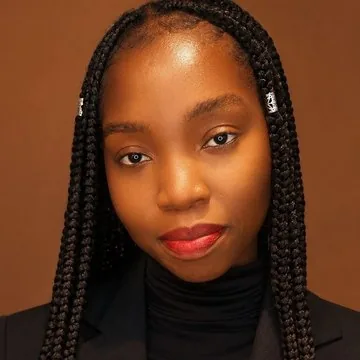
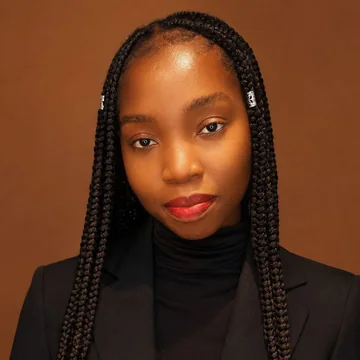
Apply VamosFalar palette; recrop Daria/Yolanda photos; zoom out A1 image; new club image; drop 'Почему VamosFalar'
Claude-Session: https://claude.ai/code/session_01Gw7vHuWDiBF9GfiDrPFvNY

diff --git a/css/style.css b/css/style.css
@@ -1,19 +1,20 @@
 /* ============ Tokens ============ */
 :root {
-  --ink: #111111;
-  --ink-soft: #4a4a55;
-  --primary: #2b2a43;
-  --primary-hover: #3d3c5c;
-  --black: #000000;
-  --green: #1f7a35;
-  --red: #e1201f;
-  --gold: #f2c230;
+  /* VamosFalar palette */
+  --ink: #2b2d42;          /* почти чёрный */
+  --ink-soft: #5c6479;     /* серый #8d99ae, затемнённый для читаемого текста */
+  --primary: #2b2d42;
+  --primary-hover: #3d405c;
+  --black: #2b2d42;
+  --red: #ef233c;          /* красный */
+  --red-dark: #d90429;     /* тёмно-красный */
+  --gray: #8d99ae;         /* серый */
   --bg: #ffffff;
-  --bg-alt: #f7f4ef;
-  --line: #e7e7ee;
+  --bg-alt: #edf2f4;       /* белый (холодный) */
+  --line: #dde3ea;
   --radius: 28px;
   --radius-sm: 16px;
-  --shadow: 0 10px 30px rgba(20, 20, 50, .08);
+  --shadow: 0 10px 30px rgba(43, 45, 66, .08);
   --container: 1120px;
   --header-h: 92px;
   --font: 'Inter', system-ui, -apple-system, 'Segoe UI', Roboto, Arial, sans-serif;
@@ -53,11 +54,11 @@ button { font: inherit; cursor: pointer; }
   transition: background-color .2s, transform .2s, box-shadow .2s;
 }
 .btn:hover { transform: translateY(-1px); }
-.btn:focus-visible, a:focus-visible, button:focus-visible { outline: 3px solid var(--gold); outline-offset: 3px; }
+.btn:focus-visible, a:focus-visible, button:focus-visible { outline: 3px solid var(--red); outline-offset: 3px; }
 .btn--primary { background: var(--primary); color: #fff; }
-.btn--primary:hover { background: var(--primary-hover); box-shadow: 0 8px 20px rgba(43, 42, 67, .25); }
+.btn--primary:hover { background: var(--primary-hover); box-shadow: 0 8px 20px rgba(43, 45, 66, .25); }
 .btn--dark { background: var(--black); color: #fff; text-transform: uppercase; letter-spacing: .04em; font-size: 14px; min-height: 52px; }
-.btn--dark:hover { background: #24232f; }
+.btn--dark:hover { background: var(--primary-hover); }
 .btn--light { background: #fff; color: var(--primary); }
 .btn--light:hover { box-shadow: 0 8px 20px rgba(0, 0, 0, .2); }
 .btn--block { width: 100%; }
@@ -98,7 +99,7 @@ button { font: inherit; cursor: pointer; }
 }
 
 .header__right { display: flex; align-items: center; justify-content: flex-end; gap: 28px; }
-.lang { display: flex; gap: 2px; padding: 3px; background: #f1f1f5; border-radius: 999px; }
+.lang { display: flex; gap: 2px; padding: 3px; background: var(--bg-alt); border-radius: 999px; }
 .lang__btn {
   border: 0; background: transparent; padding: 5px 11px; border-radius: 999px;
   font-size: 13px; font-weight: 600; color: var(--ink-soft);
@@ -140,7 +141,7 @@ button { font: inherit; cursor: pointer; }
   background: #fff; border: 1px solid var(--line); border-radius: var(--radius); overflow: hidden;
   box-shadow: var(--shadow); transition: transform .25s, box-shadow .25s;
 }
-.audience__item:hover { transform: translateY(-4px); box-shadow: 0 16px 40px rgba(20, 20, 50, .12); }
+.audience__item:hover { transform: translateY(-4px); box-shadow: 0 16px 40px rgba(43, 45, 66, .12); }
 .audience__item img { order: -1; width: 100%; height: 340px; object-fit: cover; }
 .audience__item h3 { font-size: 18px; font-weight: 400; line-height: 1.4; padding: 22px 26px 26px; flex: 1; }
 
@@ -154,16 +155,16 @@ button { font: inherit; cursor: pointer; }
   box-shadow: var(--shadow);
   transition: transform .25s, box-shadow .25s;
 }
-.card:hover { transform: translateY(-4px); box-shadow: 0 16px 40px rgba(20, 20, 50, .12); }
+.card:hover { transform: translateY(-4px); box-shadow: 0 16px 40px rgba(43, 45, 66, .12); }
 .card__img { width: 100%; height: auto; aspect-ratio: 330 / 190; object-fit: cover; }
 .card__img--contain { object-fit: contain; background: #f4eae4; }
 .card__body { padding: 22px 30px 30px; display: flex; flex-direction: column; flex: 1; position: relative; }
 .card__badge {
   position: absolute; top: -18px; right: 24px;
-  background: var(--green); color: #fff; font-weight: 700; font-size: 14px;
+  background: var(--red); color: #fff; font-weight: 700; font-size: 14px;
   padding: 6px 14px; border-radius: 999px; box-shadow: 0 4px 10px rgba(0, 0, 0, .15);
 }
-.card__badge--alt { background: var(--red); }
+.card__badge--alt { background: var(--primary); }
 .card__title { font-size: 19px; font-weight: 400; margin-bottom: 18px; }
 .card__list { list-style: none; padding: 0; margin: 0 0 24px; font-size: 14px; color: var(--ink-soft); flex: 1; }
 .card__list li { position: relative; padding-left: 14px; margin-bottom: 4px; }
@@ -183,7 +184,7 @@ button { font: inherit; cursor: pointer; }
 /* thin Portuguese-flag accent on the left edge */
 .test::before {
   content: ''; position: absolute; left: 0; top: 0; bottom: 0; width: 6px;
-  background: linear-gradient(var(--green) 0 40%, var(--red) 40% 100%);
+  background: linear-gradient(var(--red-dark) 0 40%, var(--red) 40% 100%);
 }
 .test__icon { width: 64px; height: 64px; border-radius: 50%; background: var(--primary); color: #fff; display: grid; place-items: center; flex-shrink: 0; }
 .test__icon .ico--lg { width: 28px; height: 28px; margin-left: -2px; }
@@ -199,14 +200,14 @@ button { font: inherit; cursor: pointer; }
 .checks li::before {
   content: '✓'; position: absolute; left: 0; top: 0;
   width: 24px; height: 24px; border-radius: 50%;
-  background: var(--green); color: #fff; font-size: 13px; font-weight: 700;
+  background: var(--red); color: #fff; font-size: 13px; font-weight: 700;
   display: grid; place-items: center;
 }
 .individual__visual {
   position: relative; min-height: 300px; border-radius: var(--radius);
   background:
-    radial-gradient(circle at 20% 20%, rgba(31, 122, 53, .18), transparent 55%),
-    radial-gradient(circle at 80% 80%, rgba(225, 32, 31, .18), transparent 55%),
+    radial-gradient(circle at 20% 20%, rgba(141, 153, 174, .25), transparent 55%),
+    radial-gradient(circle at 80% 80%, rgba(239, 35, 60, .16), transparent 55%),
     #fff;
   box-shadow: var(--shadow);
   padding: 36px; display: flex; flex-direction: column; justify-content: center; gap: 18px;
@@ -215,7 +216,7 @@ button { font: inherit; cursor: pointer; }
   max-width: 75%; padding: 14px 20px; border-radius: 20px; font-size: 18px; font-weight: 500;
   box-shadow: 0 6px 18px rgba(0, 0, 0, .08);
 }
-.bubble--1 { background: var(--green); color: #fff; border-bottom-left-radius: 4px; }
+.bubble--1 { background: var(--primary); color: #fff; border-bottom-left-radius: 4px; }
 .bubble--2 { background: #fff; align-self: flex-end; border-bottom-right-radius: 4px; border: 1px solid var(--line); }
 .bubble--3 { background: var(--red); color: #fff; border-bottom-left-radius: 4px; }
 
@@ -247,9 +248,9 @@ button { font: inherit; cursor: pointer; }
 .tile p { font-size: 14px; color: var(--ink-soft); margin-top: 6px; }
 .tile__ico { width: 44px; height: 44px; border-radius: 12px; display: grid; place-items: center; }
 .tile__ico .ico { width: 22px; height: 22px; }
-.tile__ico--navy { background: #ecebf3; color: var(--primary); }
-.tile__ico--green { background: #e9f5ec; color: var(--green); }
-.tile__ico--red { background: #fdecec; color: var(--red); }
+.tile__ico--navy { background: var(--bg-alt); color: var(--primary); }
+.tile__ico--gray { background: #e3e7ee; color: #5c6479; }
+.tile__ico--red { background: #fde4e7; color: var(--red-dark); }
 
 /* ============ Team ============ */
 .team__grid { display: grid; grid-template-columns: repeat(3, 1fr); gap: 30px; margin-top: 40px; align-items: start; }
@@ -259,7 +260,7 @@ button { font: inherit; cursor: pointer; }
   background: var(--primary); color: #fff;
   display: grid; place-items: center; font-size: 44px; font-family: var(--font-logo);
   object-fit: cover;
-  border: 4px solid #fff; box-shadow: 0 0 0 3px var(--gold);
+  border: 4px solid #fff; box-shadow: 0 0 0 3px var(--red);
 }
 .person__name { font-size: 22px; font-weight: 600; }
 .person__role { color: var(--ink-soft); font-size: 14px; margin-top: 4px; }
@@ -296,7 +297,7 @@ button { font: inherit; cursor: pointer; }
   scrollbar-width: none;
 }
 .slider__track::-webkit-scrollbar { display: none; }
-.slider__track:focus-visible { outline: 3px solid var(--gold); outline-offset: 2px; border-radius: var(--radius); }
+.slider__track:focus-visible { outline: 3px solid var(--red); outline-offset: 2px; border-radius: var(--radius); }
 .slider__track > :first-child { margin-left: auto; }
 .slider__track > :last-child { margin-right: auto; }
 .slider__nav { display: flex; align-items: center; justify-content: center; gap: 18px; margin-top: 8px; }
@@ -328,12 +329,12 @@ button { font: inherit; cursor: pointer; }
   width: 46px; height: 46px; border-radius: 50%; flex-shrink: 0;
   background: var(--primary); color: #fff; display: grid; place-items: center; font-weight: 700;
 }
-.review:nth-child(3n+2) .review__avatar { background: var(--green); }
-.review:nth-child(3n) .review__avatar { background: var(--red); }
+.review:nth-child(3n+2) .review__avatar { background: var(--red); }
+.review:nth-child(3n) .review__avatar { background: var(--gray); }
 .review__name { font-weight: 600; }
 .review__date { font-size: 13px; color: var(--ink-soft); }
 .review__source { margin-left: auto; align-self: flex-start; font-size: 12px; color: var(--ink-soft); background: var(--bg-alt); padding: 4px 10px; border-radius: 999px; white-space: nowrap; }
-.review__stars { color: var(--gold); letter-spacing: 3px; font-size: 18px; margin: 16px 0 10px; }
+.review__stars { color: var(--red); letter-spacing: 3px; font-size: 18px; margin: 16px 0 10px; }
 .review__text { margin: 0; font-size: 15.5px; line-height: 1.6; position: relative; z-index: 1; }
 
 /* ============ FAQ ============ */
@@ -367,7 +368,7 @@ button { font: inherit; cursor: pointer; }
   backdrop-filter: blur(12px) saturate(140%);
   border: 1px solid rgba(255, 255, 255, .6);
   border-radius: 24px;
-  box-shadow: 0 10px 30px rgba(20, 20, 50, .12);
+  box-shadow: 0 10px 30px rgba(43, 45, 66, .12);
   padding: 30px 24px;
 }
 .final__card h2 { font-size: clamp(20px, 2.2vw, 24px); font-weight: 500; }
@@ -392,7 +393,7 @@ button { font: inherit; cursor: pointer; }
 .footer__brand img { width: 36px; height: 36px; }
 .footer__links { display: flex; gap: 22px; }
 .footer__links a { display: inline-flex; align-items: center; gap: 8px; text-decoration: none; font-weight: 500; }
-.footer__links a:hover { color: var(--green); }
+.footer__links a:hover { color: var(--red); }
 .footer__copy { font-size: 13px; color: var(--ink-soft); }
 
 /* ============ Floating WhatsApp ============ */
@@ -459,7 +460,7 @@ button { font: inherit; cursor: pointer; }
   .stat span { font-size: 13px; }
 
   .test { flex-direction: column; text-align: center; padding: 34px 24px 28px; }
-  .test::before { width: auto; height: 6px; right: 0; bottom: auto; background: linear-gradient(90deg, var(--green) 0 40%, var(--red) 40% 100%); }
+  .test::before { width: auto; height: 6px; right: 0; bottom: auto; background: linear-gradient(90deg, var(--red-dark) 0 40%, var(--red) 40% 100%); }
 }
 
 @media (max-width: 560px) {

diff --git a/index.html b/index.html
@@ -7,7 +7,7 @@
   <meta name="description" data-i18n-attr="content:meta.description" content="Онлайн-школа разговорного португальского VamosFalar: курсы A1 и A2, разговорный клуб и индивидуальные уроки с преподавателями-носителями языка в группах 2–5 человек. Португальский для переезда, путешествий и работы.">
   <meta name="keywords" content="португальский язык онлайн, курсы португальского языка, разговорный португальский, португальский с носителем, уроки португальского онлайн, португальский для начинающих, португальский A1, португальский A2, разговорный клуб португальский, португальский для переезда, португальский для эмиграции, выучить португальский, школа португальского языка, индивидуальные занятия португальский, португальский язык для Португалии, португальский язык для Анголы">
   <meta name="robots" content="index, follow">
-  <meta name="theme-color" content="#2b2a43">
+  <meta name="theme-color" content="#2b2d42">
   <link rel="canonical" href="https://vamosfalar.net/">
   <link rel="alternate" hreflang="ru" href="https://vamosfalar.net/">
   <link rel="alternate" hreflang="en" href="https://vamosfalar.net/?lang=en">
@@ -31,7 +31,7 @@
   <link rel="preconnect" href="https://fonts.googleapis.com">
   <link rel="preconnect" href="https://fonts.gstatic.com" crossorigin>
   <link href="https://fonts.googleapis.com/css2?family=Irish+Grover&family=Inter:wght@400;500;600;700&display=swap" rel="stylesheet">
-  <link rel="stylesheet" href="css/style.css?v=202610280924">
+  <link rel="stylesheet" href="css/style.css?v=202610281021">
 
   <script type="application/ld+json">
   {
@@ -181,7 +181,7 @@
       <div class="container courses__grid">
 
         <article class="card reveal">
-          <img class="card__img" src="assets/img/a1.webp" alt="" loading="lazy" width="528" height="304">
+          <img class="card__img" src="assets/img/a1.webp" alt="" loading="lazy" width="643" height="370">
           <div class="card__body">
             <span class="card__badge">A1</span>
             <h3 class="card__title" data-i18n="courses.a1.title">Разговорный курс A1 онлайн для начинающих</h3>
@@ -216,7 +216,7 @@
         </article>
 
         <article class="card reveal">
-          <img class="card__img" src="assets/img/club.webp" alt="" loading="lazy" width="548" height="313">
+          <img class="card__img" src="assets/img/club.webp" alt="" loading="lazy" width="660" height="380">
           <div class="card__body">
             <span class="card__badge card__badge--alt" data-i18n="courses.club.badge">Клуб</span>
             <h3 class="card__title" data-i18n="courses.club.title">Разговорный клуб для продолжающих</h3>
@@ -283,7 +283,6 @@
     <div class="container">
       <div class="about__inner">
       <div class="about__intro reveal">
-        <p class="eyebrow" data-i18n="about.eyebrow">Почему VamosFalar</p>
         <h2 class="about__title" data-i18n="about.title">О школе VamosFalar</h2>
         <p class="about__lead" data-i18n="about.lead">Мы учим не «португальскому из учебника», а живому языку, на котором говорят на улице, в кафе и в офисе. С первого урока — живая практика с носителями языка: полностью на португальском или с пояснениями на английском, как вам удобнее.</p>
         <div class="about__numbers">
@@ -294,9 +293,9 @@
       </div>
       <div class="about__features">
         <div class="tile reveal"><span class="tile__ico tile__ico--navy"><svg class="ico"><use href="#i-native"/></svg></span><h3 data-i18n="about.f1">Преподаватели — носители языка</h3><p data-i18n="about.f1s">Живое произношение и настоящие разговорные фразы</p></div>
-        <div class="tile reveal"><span class="tile__ico tile__ico--green"><svg class="ico"><use href="#i-video"/></svg></span><h3 data-i18n="about.f2">Формат на ваш выбор</h3><p data-i18n="about.f2s">Полностью на португальском или с пояснениями на английском</p></div>
+        <div class="tile reveal"><span class="tile__ico tile__ico--gray"><svg class="ico"><use href="#i-video"/></svg></span><h3 data-i18n="about.f2">Формат на ваш выбор</h3><p data-i18n="about.f2s">Полностью на португальском или с пояснениями на английском</p></div>
         <div class="tile reveal"><span class="tile__ico tile__ico--red"><svg class="ico"><use href="#i-group"/></svg></span><h3 data-i18n="about.f3">Маленькие группы 2–5 человек</h3><p data-i18n="about.f3s">Каждый успевает говорить на уроке</p></div>
-        <div class="tile reveal"><span class="tile__ico tile__ico--green"><svg class="ico"><use href="#i-chat"/></svg></span><h3 data-i18n="about.f4">Чаты с группой и преподавателем</h3><p data-i18n="about.f4s">Практика и поддержка между занятиями</p></div>
+        <div class="tile reveal"><span class="tile__ico tile__ico--gray"><svg class="ico"><use href="#i-chat"/></svg></span><h3 data-i18n="about.f4">Чаты с группой и преподавателем</h3><p data-i18n="about.f4s">Практика и поддержка между занятиями</p></div>
         <div class="tile reveal"><span class="tile__ico tile__ico--red"><svg class="ico"><use href="#i-tag"/></svg></span><h3 data-i18n="about.f5">Доступные цены</h3><p data-i18n="about.f5s">И скидки для наших учеников</p></div>
         <div class="tile reveal"><span class="tile__ico tile__ico--navy"><svg class="ico"><use href="#i-book"/></svg></span><h3 data-i18n="about.f6">Качественные материалы</h3><p data-i18n="about.f6s">Всё нужное для урока и самостоятельной практики</p></div>
       </div>
@@ -532,7 +531,7 @@
   <symbol id="i-book" viewBox="0 0 24 24" fill="none" stroke="currentColor" stroke-width="1.6" stroke-linecap="round" stroke-linejoin="round"><path d="M12 6.5C10 5 7 4.5 3.5 5v13.5c3.5-.5 6.5 0 8.5 1.5 2-1.5 5-2 8.5-1.5V5C17 4.5 14 5 12 6.5Z"/><path d="M12 6.5V20"/></symbol>
 </svg>
 
-<script src="js/i18n.js?v=202610280924" defer></script>
-<script src="js/main.js?v=202610280924" defer></script>
+<script src="js/i18n.js?v=202610281021" defer></script>
+<script src="js/main.js?v=202610281021" defer></script>
 </body>
 </html>

diff --git a/js/i18n.js b/js/i18n.js
@@ -71,7 +71,6 @@ window.I18N = {
     'individual.list': '<li>Personal schedule</li><li>Topics that match your goals</li><li>Custom programs</li><li>Any teacher of your choice</li><li>Your own group of 2 or more — study together with friends, family or colleagues</li>',
     'individual.wa': 'Hello! I am interested in private Portuguese lessons.',
 
-    'about.eyebrow': 'Why VamosFalar',
     'about.title': 'About VamosFalar school',
     'about.lead': 'We don’t teach “textbook Portuguese” — we teach the living language people speak on the street, in cafés and at the office. From the very first lesson: live practice with native speakers — fully in Portuguese or with explanations in English, whichever suits you.',
     'about.n1': 'students already speaking',
